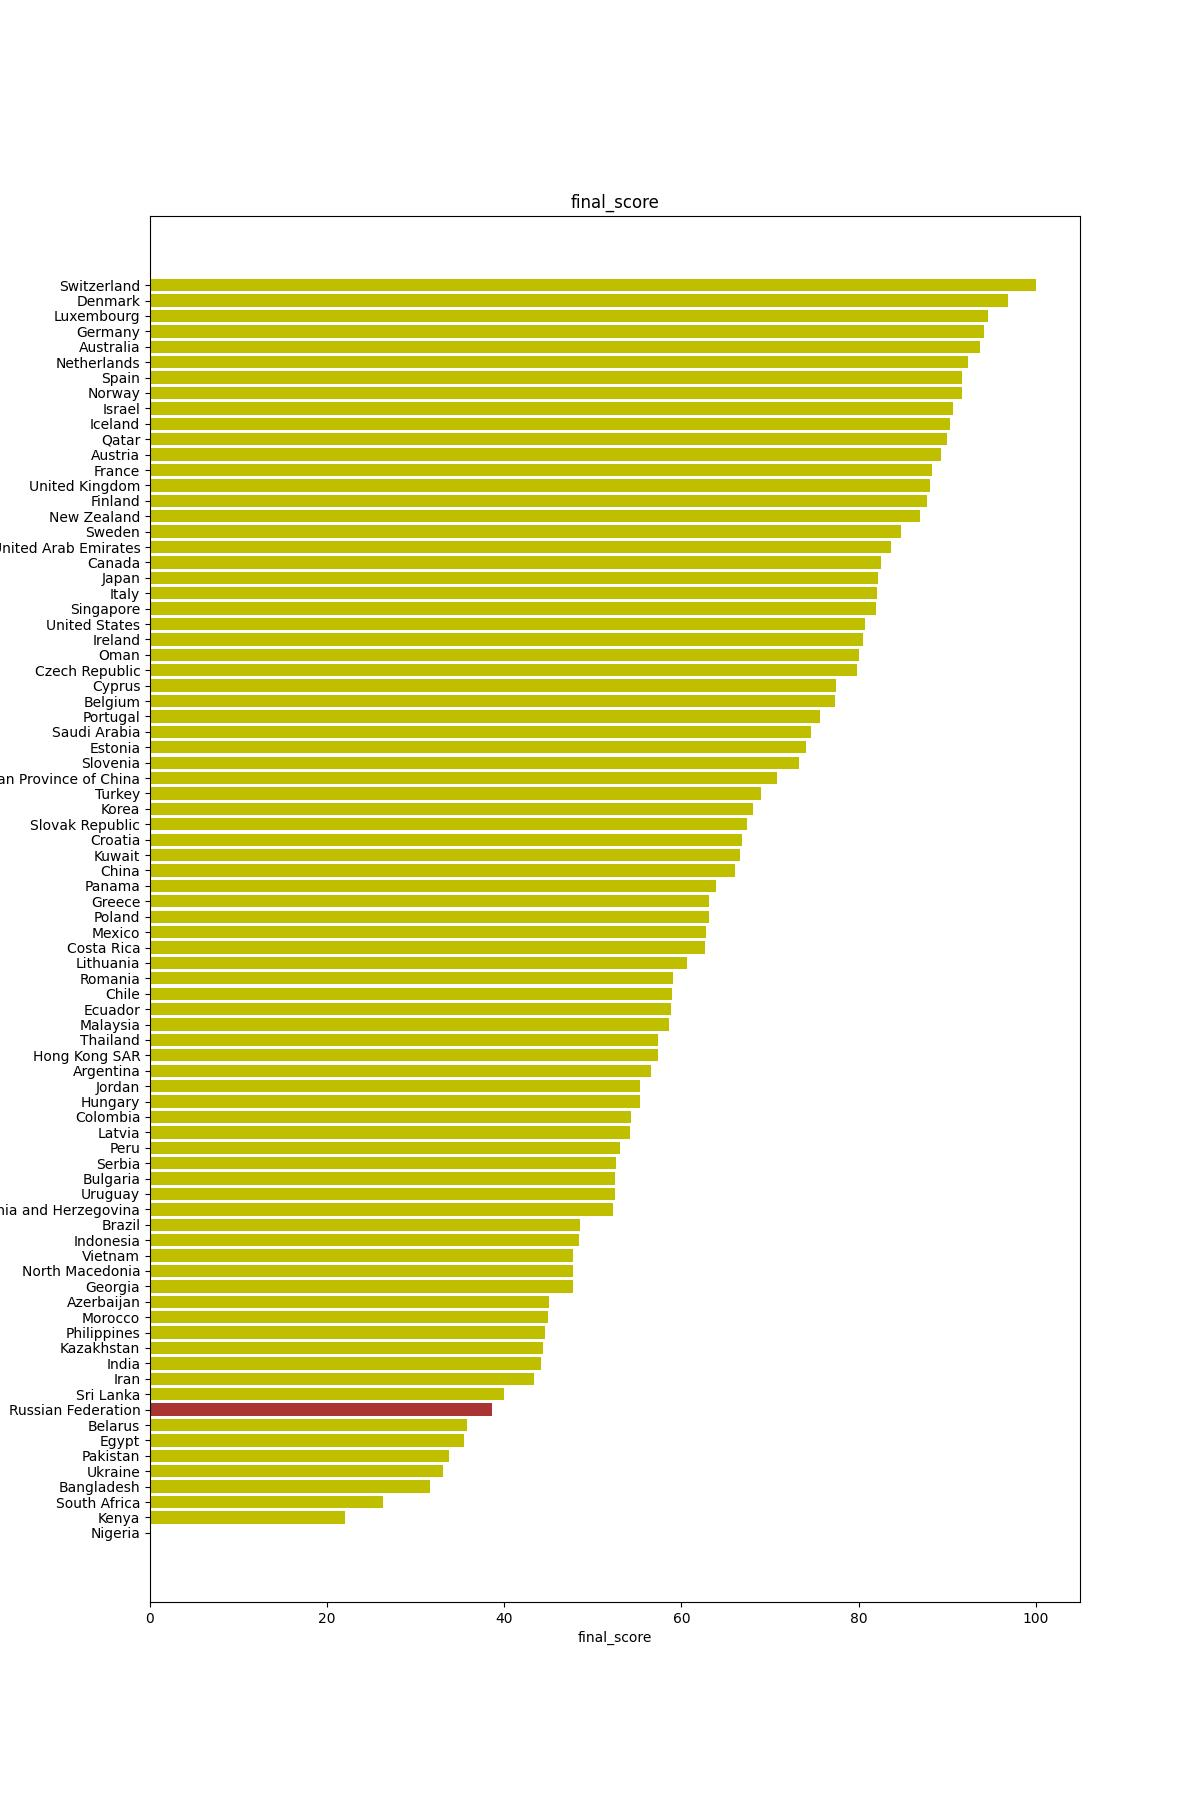
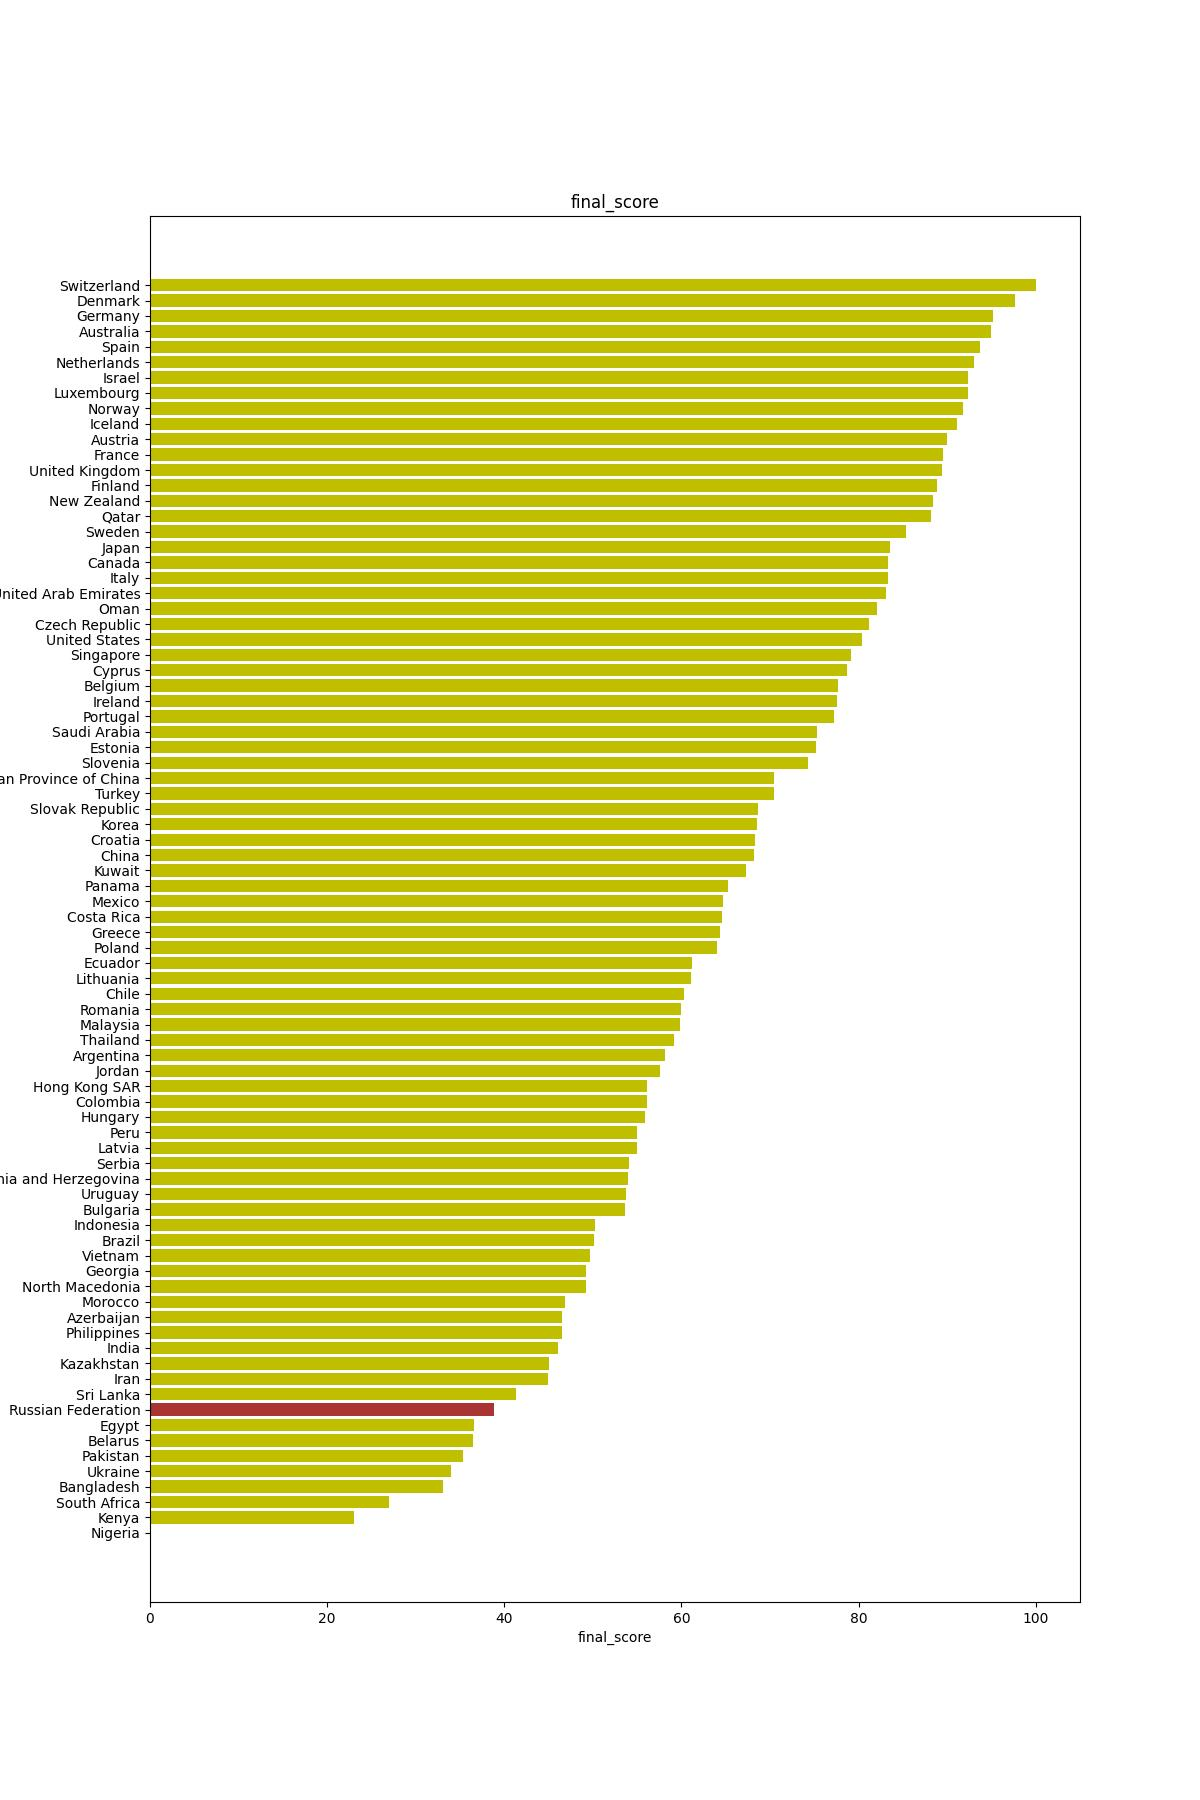
streamlit form
weights input and the image output

diff --git a/country_comparison/reads/read_config.py b/country_comparison/reads/read_config.py
@@ -1,0 +1,23 @@
+from definitions import get_root
+import streamlit as st
+import yaml
+
+def read_config():
+    with open(get_root()+'/config.yaml') as f:
+        return yaml.load(f, Loader=yaml.SafeLoader)
+
+
+def update_config_from_slider(config):
+    for feature in config['features_to_use']:
+        abs_min = 0
+        abs_max = 10
+        direction = 1
+        if config['feature_weights'][feature] < 0:
+            direction = -1
+        abs_score = st.sidebar.slider(feature,
+                                      min_value=abs_min,
+                                      max_value=abs_max,
+                                      value=int(abs(config['feature_weights'][feature])*10),
+                                      step=1)
+        config['feature_weights'][feature] = abs_score / abs_max * direction
+    return config

diff --git a/main.py b/main.py
@@ -1,13 +1,15 @@
 import numpy as np
 import pandas as pd
 from country_comparison.compare import default_minmax_scaling
-from country_comparison.plots import plot_rankings_hor
-from country_comparison.reads import read_config
+from country_comparison.plots.plot_rankings import plot_rankings_hor
+from country_comparison.reads.read_config import read_config, update_config_from_slider
 
 config = read_config()
 
 df = pd.read_csv(config['match_table_filepath'])
 res_arr = np.zeros((df.shape[0], 1))
+
+config = update_config_from_slider(config)
 
 for feature in config['features_to_use']:
     clips = {}
@@ -25,3 +27,4 @@ df[['country', 'unscaled_score', 'final_score'] +
    config['features_to_use']].to_csv(config['res_filepath'], index=None)
 
 plot_rankings_hor(df, config)
+

diff --git a/country_comparison/plots/plot_rankings.py b/country_comparison/plots/plot_rankings.py
@@ -1,9 +1,11 @@
 import matplotlib.pyplot as plt
 import numpy as np
 import pandas as pd
+import streamlit as st
 
 from definitions import get_root
 from os import path
+
 
 def plot_rankings_hor(standings_df: pd.DataFrame, config):
     ind = np.arange(standings_df.shape[0])
@@ -26,3 +28,5 @@ def plot_rankings_hor(standings_df: pd.DataFrame, config):
     ax.patches[pos].set_facecolor(red_color)
 
     plt.savefig(path.join(root, config['res_filepath'].replace('csv', 'jpeg')))
+
+    st.pyplot(fig)

diff --git a/country_comparison/__init__.py b/country_comparison/__init__.py
@@ -1,1 +1,1 @@
-__version__ = '0.0.1-SNAPSHOT'
+__version__ = '0.0.1'
